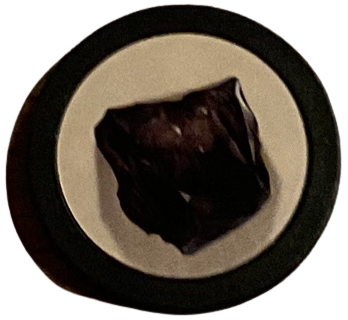
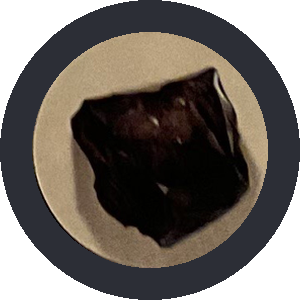
One Settings dialog with everything, hands that shrink to fit short windows, rebuilt black token, purple card back, and teal hand outlines with a brighter turn frame.

diff --git a/src/Game.jsx b/src/Game.jsx
@@ -5,7 +5,6 @@ import { Check, Copy, Loader2, ListChecks, History, ChevronDown, TriangleAlert, 
 import { Button } from '@/components/ui/button';
 import { Card } from '@/components/ui/card';
 import { Dialog, DialogContent, DialogDescription, DialogFooter, DialogHeader, DialogTitle } from '@/components/ui/dialog';
-import { DropdownMenu, DropdownMenuContent, DropdownMenuItem, DropdownMenuSeparator, DropdownMenuTrigger } from '@/components/ui/dropdown-menu';
 import { ScrollArea } from '@/components/ui/scroll-area';
 import { Separator } from '@/components/ui/separator';
 import { Switch } from '@/components/ui/switch';
@@ -424,32 +423,7 @@ function Board({ session, onExit, onRestart, init, onReplaced }) {
         <div>
           <div className="stage relative flex flex-col gap-2 p-2.5" onClick={(e) => { if (e.currentTarget.contains(e.target) && !e.target.closest('[data-card-id], [data-keep]')) setInspect(null); }} style={tall ? { width: w, minHeight: h, zoom: k, '--cell': `${cell}px` } : { width: w, height: h, transform: `scale(${k})`, transformOrigin: '0 0', '--cell': `${cell}px` }}>
             <div data-keep className={cn('z-30 flex items-center gap-1.5', tall ? 'justify-end' : 'absolute right-3 top-3')} > 
-              <DropdownMenu>
-                <DropdownMenuTrigger asChild>
-                  <Button variant="ghost" className="h-11 gap-2.5 px-5 text-base text-white hover:bg-white/10 hover:text-white"><Pic name="settings" size={26} /> Settings <ChevronDown className="size-5 opacity-60" /></Button>
-                </DropdownMenuTrigger>
-                <DropdownMenuContent align="end" className="z-[90] w-72">
-                  {online && (
-                    <>
-                      <div className="flex items-center justify-between gap-3 px-2 py-2 text-sm">
-                        <span className="text-muted-foreground">Code</span>
-                        <span className="font-bold tracking-[0.2em]">{session.code}</span>
-                        <button type="button" onClick={(e) => { e.preventDefault(); copyCode(); }} className="text-muted-foreground hover:text-foreground" title="Copy the code">
-                          {copied ? <Check className="size-4" /> : <Copy className="size-4" />}
-                        </button>
-                      </div>
-                      <DropdownMenuSeparator />
-                    </>
-                  )}
-                  <DropdownMenuItem onSelect={() => setShowSettings(true)} className="gap-2 py-2.5"><Pic name="settings" size={20} /> Game settings</DropdownMenuItem>
-                  <DropdownMenuItem onSelect={() => setShowLog(true)} className="gap-2 py-2.5"><Pic name="log" size={20} /> Log</DropdownMenuItem>
-                  <DropdownMenuItem onSelect={() => setShowRules(true)} className="gap-2 py-2.5"><Pic name="rules" size={20} /> Rules</DropdownMenuItem>
-                  <DropdownMenuSeparator />
-                  {!online && <DropdownMenuItem onSelect={restart} className="gap-2 py-2.5"><Pic name="go-again" size={20} /> Start over</DropdownMenuItem>}
-                  <DropdownMenuItem onSelect={resign} className="gap-2 py-2.5"><Pic name="resign" size={20} /> Resign</DropdownMenuItem>
-                  <DropdownMenuItem onSelect={leave} className="gap-2 py-2.5"><Pic name="leave-game" size={20} /> Leave game</DropdownMenuItem>
-                </DropdownMenuContent>
-              </DropdownMenu>
+              <Button variant="ghost" className="h-10 gap-2 px-3 text-sm text-white hover:bg-white/10 hover:text-white" onClick={() => setShowSettings(true)}><Pic name="settings" size={22} /> Settings</Button>
             </div>
             <div className={cn('grid gap-3', !tall && 'min-h-0 flex-1')} style={{ gridTemplateColumns: tall ? 'minmax(0,1fr)' : strip ? `${padX}px ${boardColW}px ${cardsW}px ${padX}px` : `${sideW}px minmax(0,1fr) ${cardsW}px`, gridTemplateRows: strip ? `minmax(0,1fr) ${stripH}px` : undefined }}>
               {playersColumn}
@@ -556,12 +530,34 @@ function Board({ session, onExit, onRestart, init, onReplaced }) {
       {showRules && <Rules exp={exp} onClose={() => setShowRules(false)} />}
       {showSettings && (
         <GameSettings
+          title="Settings"
           inGame
           locked={online}
           current={{ exp: !!session.exp, randomCards: !!session.randomCards, randomRoyals: !!session.randomRoyals }}
           onRestart={(o) => { setShowSettings(false); onRestart(o); }}
           onClose={() => setShowSettings(false)}
-        />
+        >
+          {online && (
+            <div className="flex items-center justify-between gap-3 rounded-lg border px-3 py-2 text-sm">
+              <span className="text-muted-foreground">Game code</span>
+              <span className="font-bold tracking-[0.2em]">{session.code}</span>
+              <button type="button" onClick={copyCode} className="text-muted-foreground hover:text-foreground" title="Copy the code">
+                {copied ? <Check className="size-4" /> : <Copy className="size-4" />}
+              </button>
+            </div>
+          )}
+          <div className="grid grid-cols-2 gap-2">
+            {[
+              ['log', 'Log', () => setShowLog(true)],
+              ['rules', 'Rules', () => setShowRules(true)],
+              ...(online ? [] : [['go-again', 'Start over', restart]]),
+              ['resign', 'Resign', resign],
+              ['leave-game', 'Leave game', leave],
+            ].map(([icon, label, run]) => (
+              <Button key={label} variant="outline" className="justify-start gap-2" onClick={() => { setShowSettings(false); run(); }}><Pic name={icon} size={20} /> {label}</Button>
+            ))}
+          </div>
+        </GameSettings>
       )}
 
       <Dialog open={showLog} onOpenChange={setShowLog}>

diff --git a/src/components/Player.jsx b/src/components/Player.jsx
@@ -1,3 +1,4 @@
+import { useLayoutEffect, useRef, useState } from 'react';
 import { Card } from '@/components/ui/card';
 import { Badge } from '@/components/ui/badge';
 import { BorderBeam } from '@/components/ui/border-beam';
@@ -29,6 +30,20 @@ const TokenStat = ({ p, big }) => {
 
 export default function Player({ S, idx, dispatch, onInspect, colW = 52, viewer = null, onOpen = null, zoomed = false, wide = false, summary = false, expanded = false, horizontal = false, compact = false }) {
   const p = S.players[idx];
+  const fitRef = useRef(null);
+  const [fit, setFit] = useState(1);
+  useLayoutEffect(() => {
+    const el = fitRef.current;
+    const box = el?.parentElement;
+    if (!el || !box) return;
+    const k = box.getBoundingClientRect().height / (box.offsetHeight || 1);
+    const cs = getComputedStyle(box);
+    const avail = box.getBoundingClientRect().height - (parseFloat(cs.paddingTop) + parseFloat(cs.paddingBottom)) * k;
+    const used = el.getBoundingClientRect().height;
+    if (!avail || !used) return;
+    const next = Math.max(0.45, Math.min(1, fit * (avail / used) * 0.985));
+    if (Math.abs(next - fit) > 0.01) setFit(next);
+  });
   const counters = useCounters();
   const count = (n) => counters && n > 0 && <span className="countbadge" title={`${n} cards`}>{n}</span>;
   const active = idx === S.cur && !S.awaitingFirst;
@@ -65,7 +80,7 @@ export default function Player({ S, idx, dispatch, onInspect, colW = 52, viewer 
         </div>
     );
     return (
-      <Card data-dest-tokens={idx} data-dest-cards={idx} data-dest-res={idx} className={cn('handboard min-h-0 flex-1 flex-row items-stretch gap-4 overflow-hidden px-4 py-2', active && 'outline outline-2 -outline-offset-4 outline-primary/70')}>
+      <Card data-dest-tokens={idx} data-dest-cards={idx} data-dest-res={idx} className={cn('handboard min-h-0 flex-1 flex-row items-stretch gap-4 overflow-hidden px-4 py-2', active && 'outline outline-[3px] -outline-offset-3 outline-[#ffd25e]')}>
         <div className="flex shrink-0 flex-col justify-center gap-1">
           <h3 className="text-base font-bold">{p.name}</h3>
           <div className="flex flex-wrap items-center gap-x-3">
@@ -111,7 +126,8 @@ export default function Player({ S, idx, dispatch, onInspect, colW = 52, viewer 
     const cw = Math.round(124 * z);
     const ch = Math.round(189 * z);
     return (
-      <Card data-dest-tokens={idx} data-dest-cards={idx} data-dest-res={idx} className={cn('handboard min-h-0 flex-1 gap-0 overflow-hidden p-3', active && 'outline outline-2 -outline-offset-4 outline-primary/70')}>
+      <Card data-dest-tokens={idx} data-dest-cards={idx} data-dest-res={idx} className={cn('handboard min-h-0 flex-1 gap-0 overflow-hidden p-3', active && 'outline outline-[3px] -outline-offset-3 outline-[#ffd25e]')}>
+        <div ref={fitRef} style={{ zoom: fit }}>
         <h3 className="text-base font-bold">{p.name}</h3>
         <div className="mt-1 flex flex-wrap items-center gap-x-3">
           <Stat title="Prestige points"><span>{pts(p)}</span></Stat>
@@ -150,6 +166,7 @@ export default function Player({ S, idx, dispatch, onInspect, colW = 52, viewer 
             if (!c) return <div key={`slot${i}`} className="slot" />;
             return reserved(c, i);
           })}
+        </div>
         </div>
       </Card>
     );
@@ -194,8 +211,8 @@ export default function Player({ S, idx, dispatch, onInspect, colW = 52, viewer 
             <div key={k} className="flex shrink-0 flex-col items-center gap-2" style={{ width: colW }}>
               {zoomed && (
                 <div className="flex items-center gap-2" title={`${k}: ${p.tok[k]} tokens`}>
-                  <TokenArt kind={k} size={Math.max(34, Math.round(colW * 0.5))} />
-                  <span className="font-extrabold leading-none" style={{ fontSize: Math.max(24, Math.round(colW * 0.34)) }}>{p.tok[k]}</span>
+                  <TokenArt kind={k} size={Math.max(30, Math.round(colW * 0.36))} />
+                  <span className="font-extrabold leading-none" style={{ fontSize: Math.max(22, Math.round(colW * 0.28)) }}>{p.tok[k]}</span>
                 </div>
               )}
               <div title={canReturn ? `Return a ${k} token to the bag` : `${k}: ${p.tok[k]}`} onClick={click} className={cn('flex flex-col-reverse items-center', click && 'pile click')} style={{ minHeight: zoomed ? 0 : tok }}>

diff --git a/src/styles.css b/src/styles.css
@@ -170,10 +170,12 @@
 .card.imgcard img { display: block; width: 100%; height: 100%; object-fit: fill; }
 html[data-look=classic] .back.lv1 { background: url(/classic/back-1.jpg) center / 100% 100% no-repeat; }
 html[data-look=classic] .back.lv2 { background: url(/classic/back-2.jpg) center / 100% 100% no-repeat; }
+html[data-look=classic] .back.lvcf { background: url(/classic/back-cf.png) center / 100% 100% no-repeat; }
+html[data-look=classic] .card.cfcard { border: 0; }
 html[data-look=classic] .back.lv3 { background: url(/classic/back-3.jpg) center / 100% 100% no-repeat; }
 
 /* the felt tray a hand is shown on when it is hovered or opened */
-.handboard { background-image: url(/boards/felt-hand.svg); background-size: 100% 100%; background-repeat: no-repeat; background-position: center; border: 2px solid var(--felt-edge); border-radius: 12px; box-shadow: none; }
+.handboard { background-image: url(/boards/felt-hand.svg); background-size: 100% 100%; background-repeat: no-repeat; background-position: center; border: 2px solid var(--hand-edge); border-radius: 12px; box-shadow: none; }
 
 /* buttons and scrolls sit in the slots carved into the bottom of the board */
 .boardbtns { position: absolute; left: calc(var(--cell) * 0.327); top: calc(var(--cell) * 5.846); width: calc(var(--cell) * 3.173); height: calc(var(--cell) * 0.5); display: grid; grid-template-columns: repeat(4, 1fr); gap: calc(var(--cell) * 0.0865); }
@@ -188,8 +190,8 @@ html[data-look=classic] .back.lv3 { background: url(/classic/back-3.jpg) center 
 .boardbtns.three { grid-template-columns: repeat(3, 1fr); gap: calc(var(--cell) * 0.0962); }
 
 /* the felt box the hints are written on */
-.hintbox { background-image: url(/boards/felt-hint.svg); background-size: 100% 100%; background-repeat: no-repeat; border: 2px solid var(--felt-edge); border-radius: 12px; }
-:root { --felt-edge: #b98a4a; }
+.hintbox { background-image: url(/boards/felt-hint.svg); background-size: 100% 100%; background-repeat: no-repeat; border: 2px solid var(--hint-edge); border-radius: 12px; }
+:root { --hand-edge: #2f8576; --hint-edge: #6b7487; }
 
 /* the flipped coin is the coin picture itself */
 .coinbox .coin { width: 150px; height: 150px; }

diff --git a/src/components/GameSettings.jsx b/src/components/GameSettings.jsx
@@ -10,7 +10,7 @@ const PREF = { exp: expPref, randomCards: cardsPref, randomRoyals: royalsPref };
  * The game options, the same list on the home page and inside a game. Looks change at once. Options that
  * change the cards in play start a new game when changed inside a game, and cannot change in an online one.
  */
-export default function GameSettings({ onClose, inGame = false, current, locked = false, onRestart }) {
+export default function GameSettings({ onClose, inGame = false, current, locked = false, onRestart, title = 'Game settings', children }) {
   const look = useLook();
   const counters = countersPref.use();
   const stored = { exp: expPref.use(), randomCards: cardsPref.use(), randomRoyals: royalsPref.use() };
@@ -43,7 +43,7 @@ export default function GameSettings({ onClose, inGame = false, current, locked 
     <Dialog open onOpenChange={(o) => !o && onClose()}>
       <DialogContent className="sm:max-w-md">
         <DialogHeader>
-          <DialogTitle>{pending ? 'Start a new game?' : 'Game settings'}</DialogTitle>
+          <DialogTitle>{pending ? 'Start a new game?' : title}</DialogTitle>
           <DialogDescription className={pending ? undefined : 'sr-only'}>{pending ? 'This changes the cards in play, so the current game will be lost.' : 'Choose what the game uses'}</DialogDescription>
         </DialogHeader>
         {pending ? (
@@ -64,6 +64,7 @@ export default function GameSettings({ onClose, inGame = false, current, locked 
                 </label>
               ))}
             </div>
+            {children}
             <DialogFooter><Button onClick={onClose}>Done</Button></DialogFooter>
           </>
         )}
